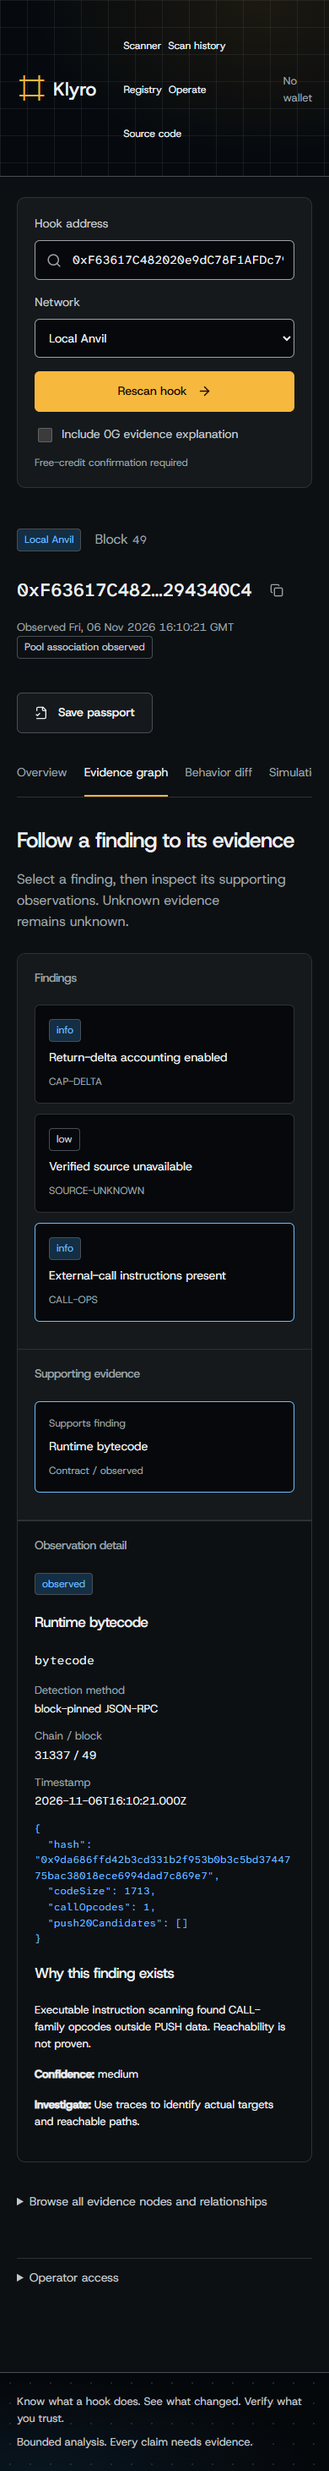
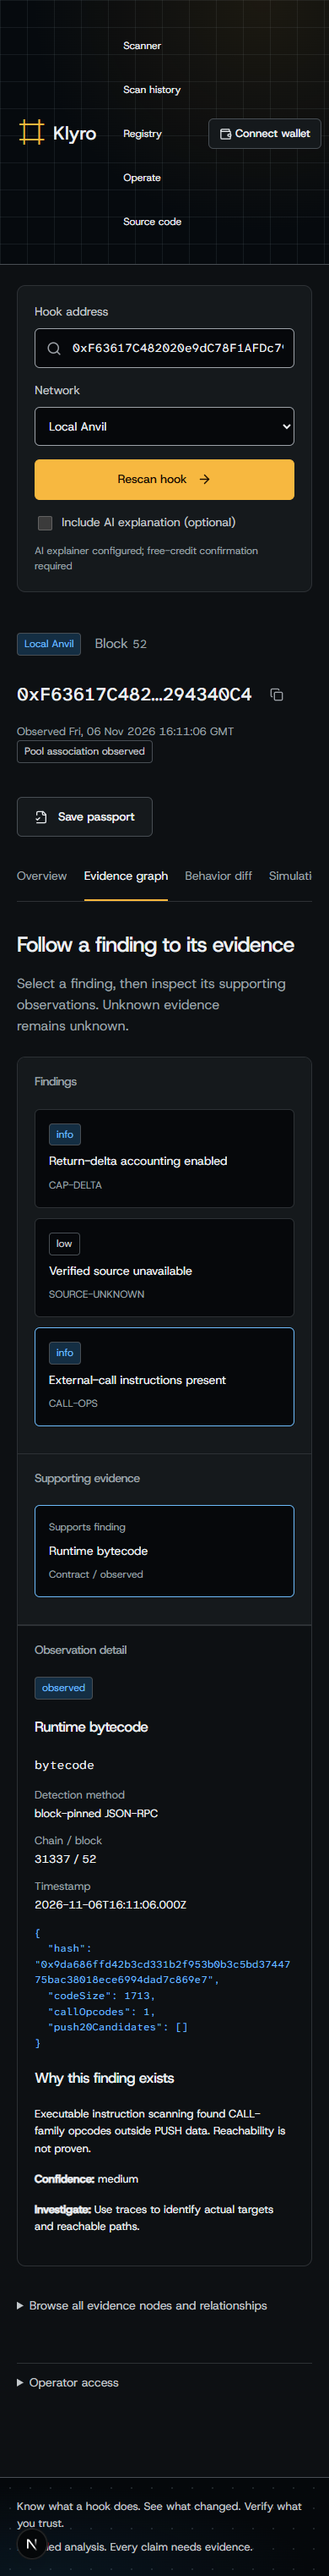
docs: make the AI explainer explicitly optional
0G remains integrated but is no longer presented as required anywhere: the
env template, the health flag, the scan options, the explanation tab and the
workflow table all say so. With no credentials a scan, its findings, a diff
and a passport are unaffected, and the explainer records "unavailable" with
no output rather than generating a substitute. The screenshots are
regenerated by the existing e2e run and show the new wallet control.

diff --git a/src/server/ai.ts b/src/server/ai.ts
@@ -171,6 +171,10 @@ export async function explain(
     error: null,
   };
   saveAI(result);
+  // 0G is an optional explainer, never a requirement. A deployment with no 0G
+  // credentials must still scan, record findings and publish reports; it simply
+  // records that no explanation was requested. Nothing is generated in place of
+  // the provider's output.
   if (
     !process.env.ZERO_G_API_KEY ||
     !process.env.ZERO_G_MODEL ||
@@ -178,7 +182,7 @@ export async function explain(
   ) {
     result.status = "unavailable";
     result.error =
-      "Configure a 0G API key and model, and confirm existing free credits. No inference was sent.";
+      "No AI explanation was requested: 0G is not configured (and is optional). The deterministic findings, evidence and hashes above are complete on their own.";
     saveAI(result);
     return result;
   }

diff --git a/src/components/passport.tsx b/src/components/passport.tsx
@@ -82,7 +82,7 @@ export default function PassportView({ id }: { id: string }) {
               </strong>
             </div>
             <div className="fact">
-              <span>0G request ID</span>
+              <span>AI provider request ID</span>
               <code>
                 {data.report.inference?.requestId ??
                   "No successful inference reference"}

diff --git a/README.md b/README.md
@@ -27,6 +27,7 @@ The core application is implemented and locally verified. **The full hackathon c
 - Real Uniswap v4 baseline/hook fixture on Foundry and Anvil, with observed callback counts, return-delta fee, balances, receipts and gas.
 - Canonical Hook Passports, browser-side hashing, tamper rejection, registry readback and a separate current-contract match.
 - Official 0G Router integration and CRE workflow code with honest unavailable/blocked states. CRE compiled to WASM; compilation is not successful CLI simulation.
+- A header wallet control that detects injected wallets through EIP-6963 (with `window.ethereum` as a fallback), shows the shortened address and current network, offers an explicit network switch between Ethereum Mainnet (1), Sepolia (11155111), Base Mainnet (8453) and Local Anvil (31337), and follows account and network changes. A rejected prompt is reported as a rejection, and Klyro never switches the user's network on its own.
 - Wallet-signed registry deployment and report publication (`/?view=deploy`). The server prepares the exact transaction and reads the receipt back; it holds no key, and nothing is recorded as deployed or published without a confirmed chain response. Analysis stays usable with no wallet at all.
 - Scheduled hook monitoring with a durable SQLite lease, per-run history, backoff and restart recovery; monitoring survives restarts and never double scans a hook.
 - Live 0G diagnosis: the configured account returns HTTP 402 `pay_no_balance`, so inference is reported unavailable rather than fabricated. The app distinguishes empty credits from a wrong model id.
@@ -62,7 +63,11 @@ For live read-only inspection choose Ethereum, Sepolia or Base and a genuinely d
 
 .env.example documents all server-only settings. RPC_ETHEREUM/RPC_SEPOLIA/RPC_BASE default to public read endpoints. RPC_LOCAL points to Anvil. DATABASE_PATH defaults to ./data/hscan.sqlite. Never put credentials in NEXT_PUBLIC_* variables or commit an environment file.
 
-0G requires ZERO_G_API_KEY, a real ZERO_G_MODEL and confirmation of usable existing free credits through ZERO_G_FREE_CREDITS_CONFIRMED=true. The user authorizes free credits only; the app never deposits funds. The primary scan workflow requests private routing and TEE verification when enabled. Actual x_0g_trace.request_id and provider metadata are persisted. Without 0G, explanation and inference provenance are unavailable. Independent TEE verification is explicitly NOT_PERFORMED.
+An AI explainer is **optional**. With no ZERO_G_API_KEY, no ZERO_G_MODEL or ZERO_G_FREE_CREDITS_CONFIRMED unset, every scan still completes: findings, evidence, diffs, hashes and passports do not depend on a model, and the app records "no explanation requested" rather than generating text. To enable it, set ZERO_G_API_KEY, a real ZERO_G_MODEL, and ZERO_G_FREE_CREDITS_CONFIRMED=true after confirming usable existing free credits. The user authorizes free credits only; the app never deposits funds. When enabled, private routing and TEE verification are requested, and the actual x_0g_trace.request_id and provider metadata are persisted. Independent TEE verification is explicitly NOT_PERFORMED.
+
+Two API contracts the UI relies on. `GET /api/health` answers 200 with `status` (`ok` or `degraded`), `database`, `storage` (`ok`, the path actually in use, `durable`, and a reason), the supported networks and which optional integrations are configured; it answers even when storage is unusable, because that is what the endpoint exists to report. `GET /api/scans` answers `{ scans, unreadable, storage, notice }` so an empty history and a corrupted one are never presented as the same thing. A server-side failure answers 500 (`INTERNAL_ERROR`) and a storage failure 503 (`STORAGE_UNAVAILABLE`); a malformed request is the only thing that answers 400.
+
+On a serverless host with no persistent disk, an unwritable `DATABASE_PATH` falls back to a per-instance temporary database so read-only analysis keeps working. The health endpoint reports that database as non-durable and `/api/scans` reports `storage: "ephemeral"`; history is not preserved across instances. Point `DATABASE_PATH` at a real volume to keep it.
 
 For registry readback set the actual REGISTRY_ADDRESS and REGISTRY_CHAIN_ID. For a local demo these are returned by npm run simulation; they are not public-chain deployments. Set APP_ORIGIN to the deployed origin; optional APP_ADDITIONAL_ORIGINS is an explicit comma-separated allowlist. Set OPERATOR_TOKEN before enabling protected operations in production.
 
@@ -82,7 +87,7 @@ npm run test:e2e
 
 On Windows, browser tests use the installed Microsoft Edge. On Linux/macOS run `npx playwright install chromium`; omit BROWSER_PATH or set it to chromium. BROWSER_PATH may also be an explicit browser executable path.
 
-Verified locally: **40 unit tests, 11 Foundry tests, 6 browser tests, production build, real live-chain scan, local scan/passport/registry integration and actual proxy upgrade detection**. The Foundry count includes ten registry tests and one behavioral test. See EVIDENCE.md for actual runs and initial failures fixed.
+Verified on 7 November 2026: **104 Vitest tests and 28 Playwright tests (desktop and mobile viewports) passed, the production build passed, a real live-chain scan ran with no wallet installed, and local scan/passport/registry integration and proxy upgrade detection remain green**. The wallet tests drive a mock EIP-1193 provider, which exercises Klyro's own behaviour; they are not a test of the MetaMask extension itself, and no real signature is claimed. See EVIDENCE.md for actual runs and failures found and fixed.
 
 The attention index is capped at 100: info=0, low=5, medium=15, high=30. It measures rule-weighted investigation attention, not exploit probability, safety or a full audit result.
 
